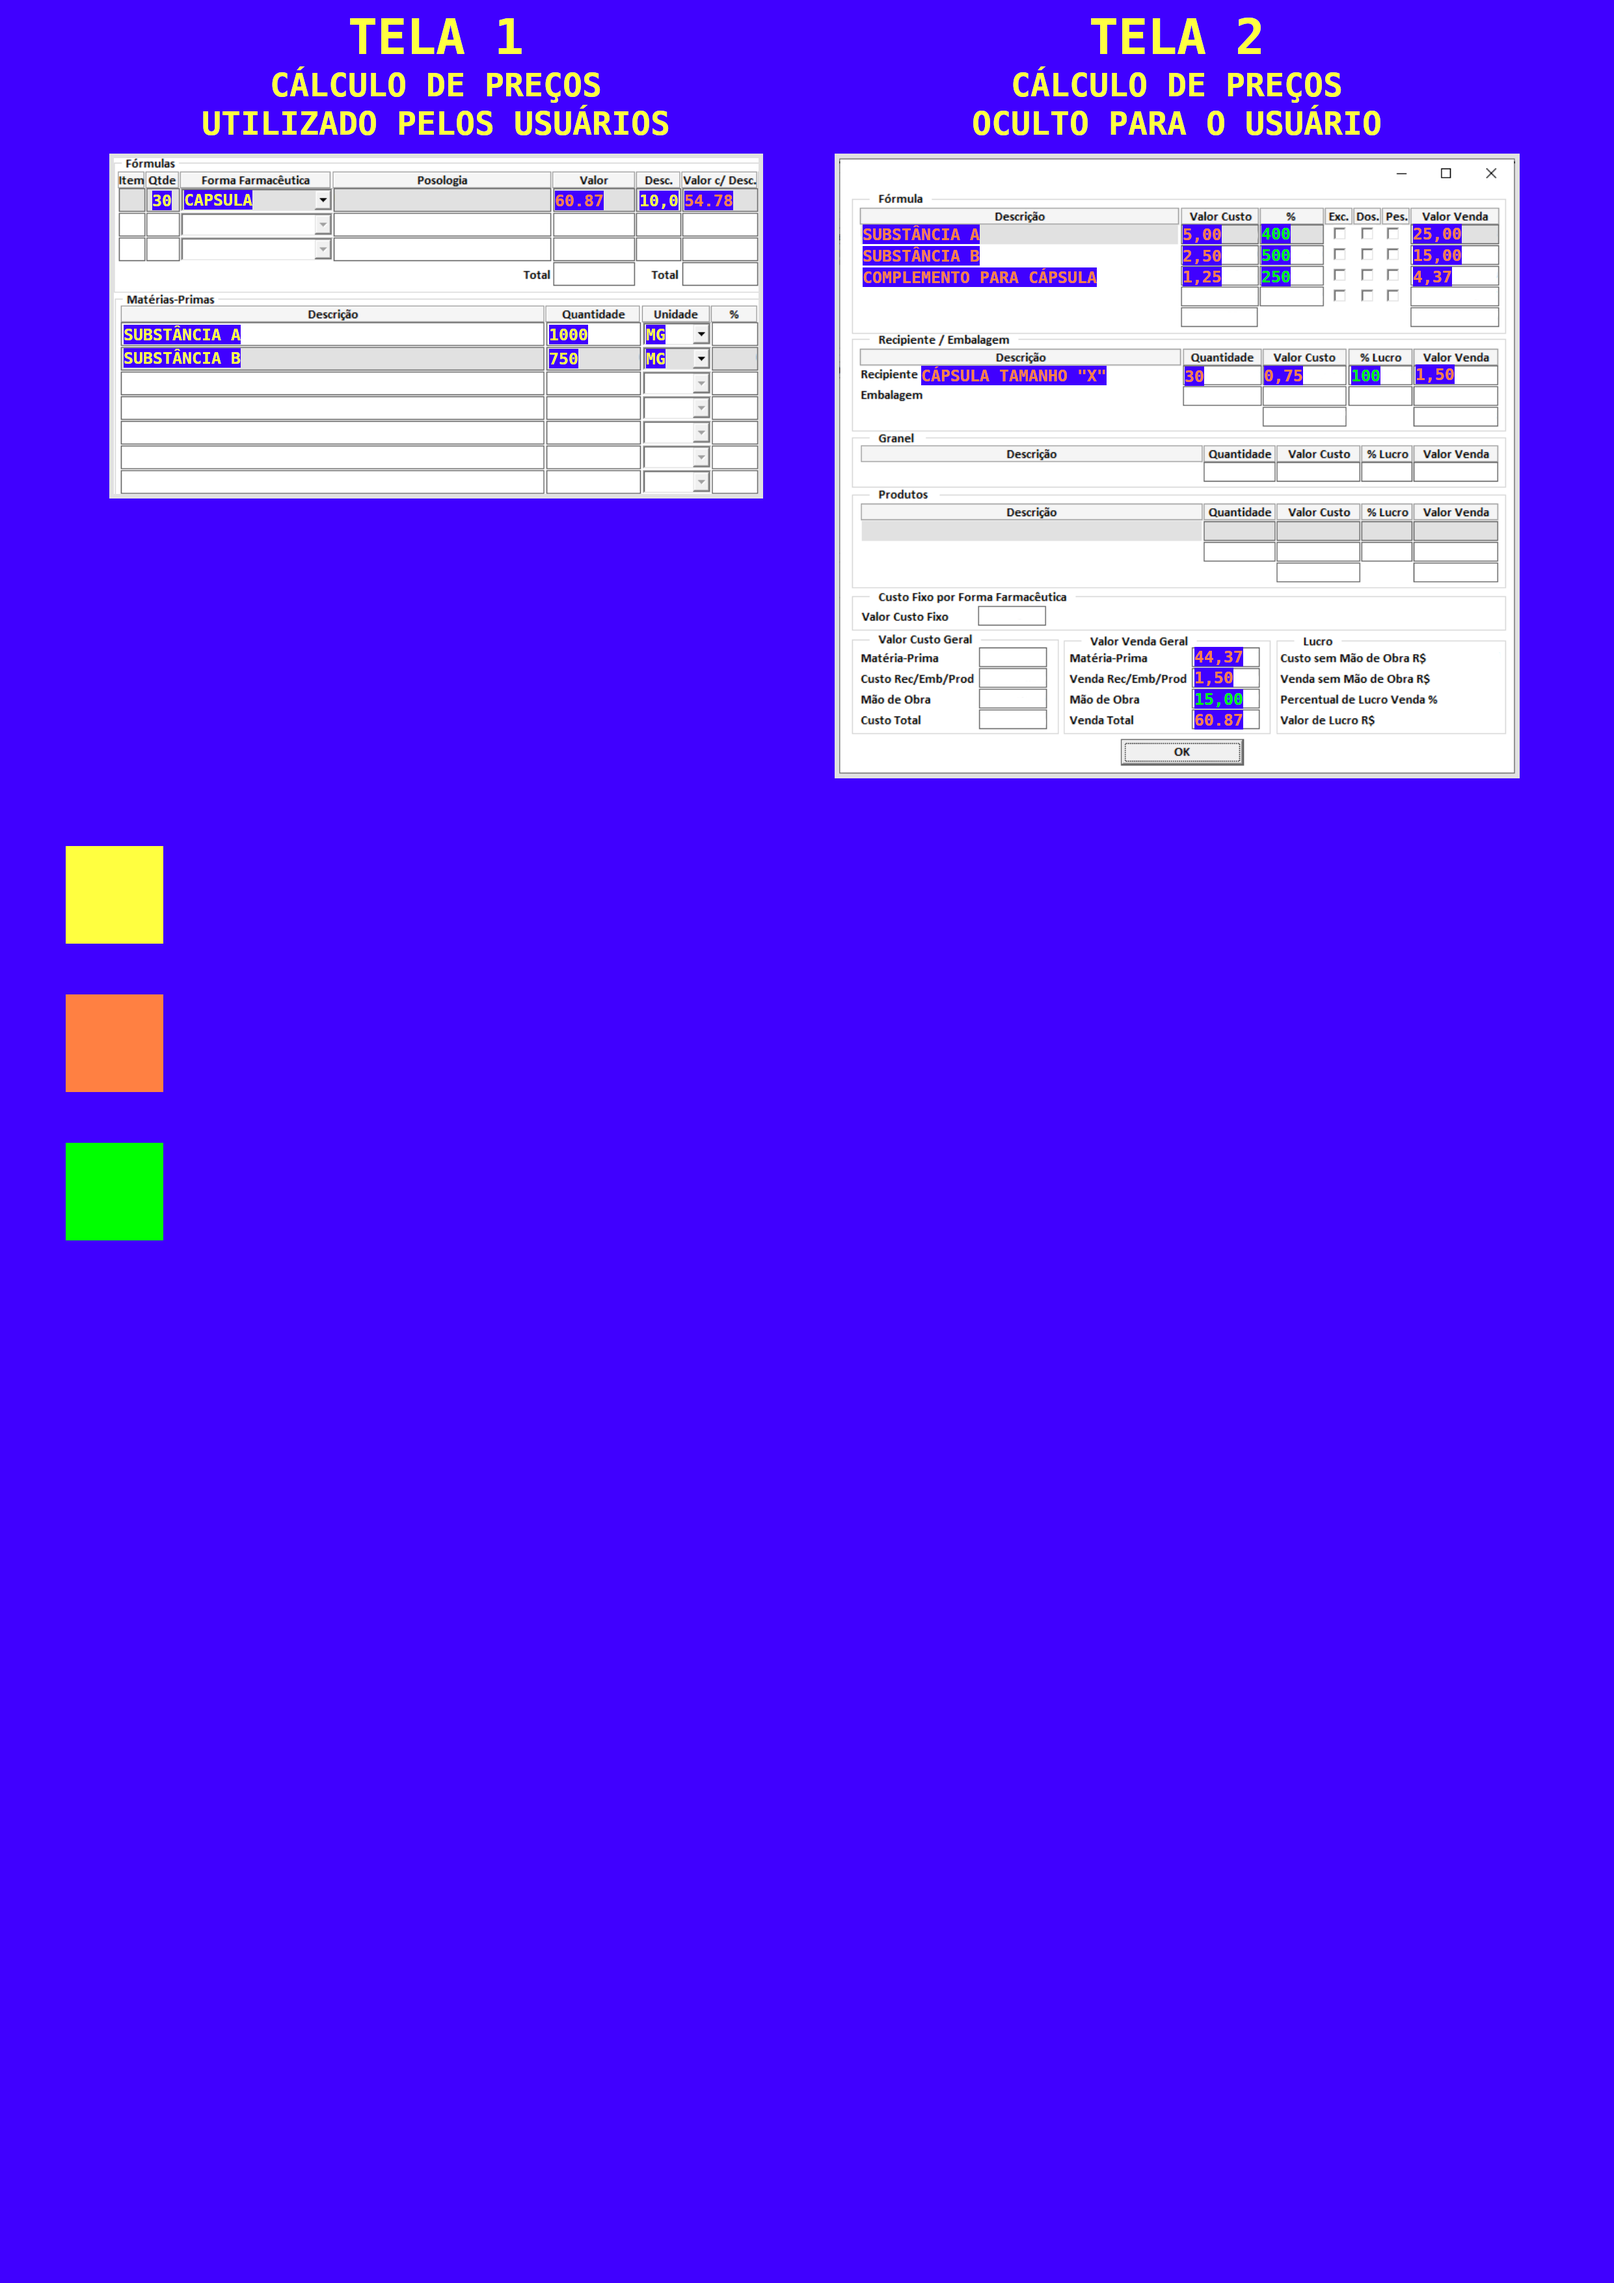
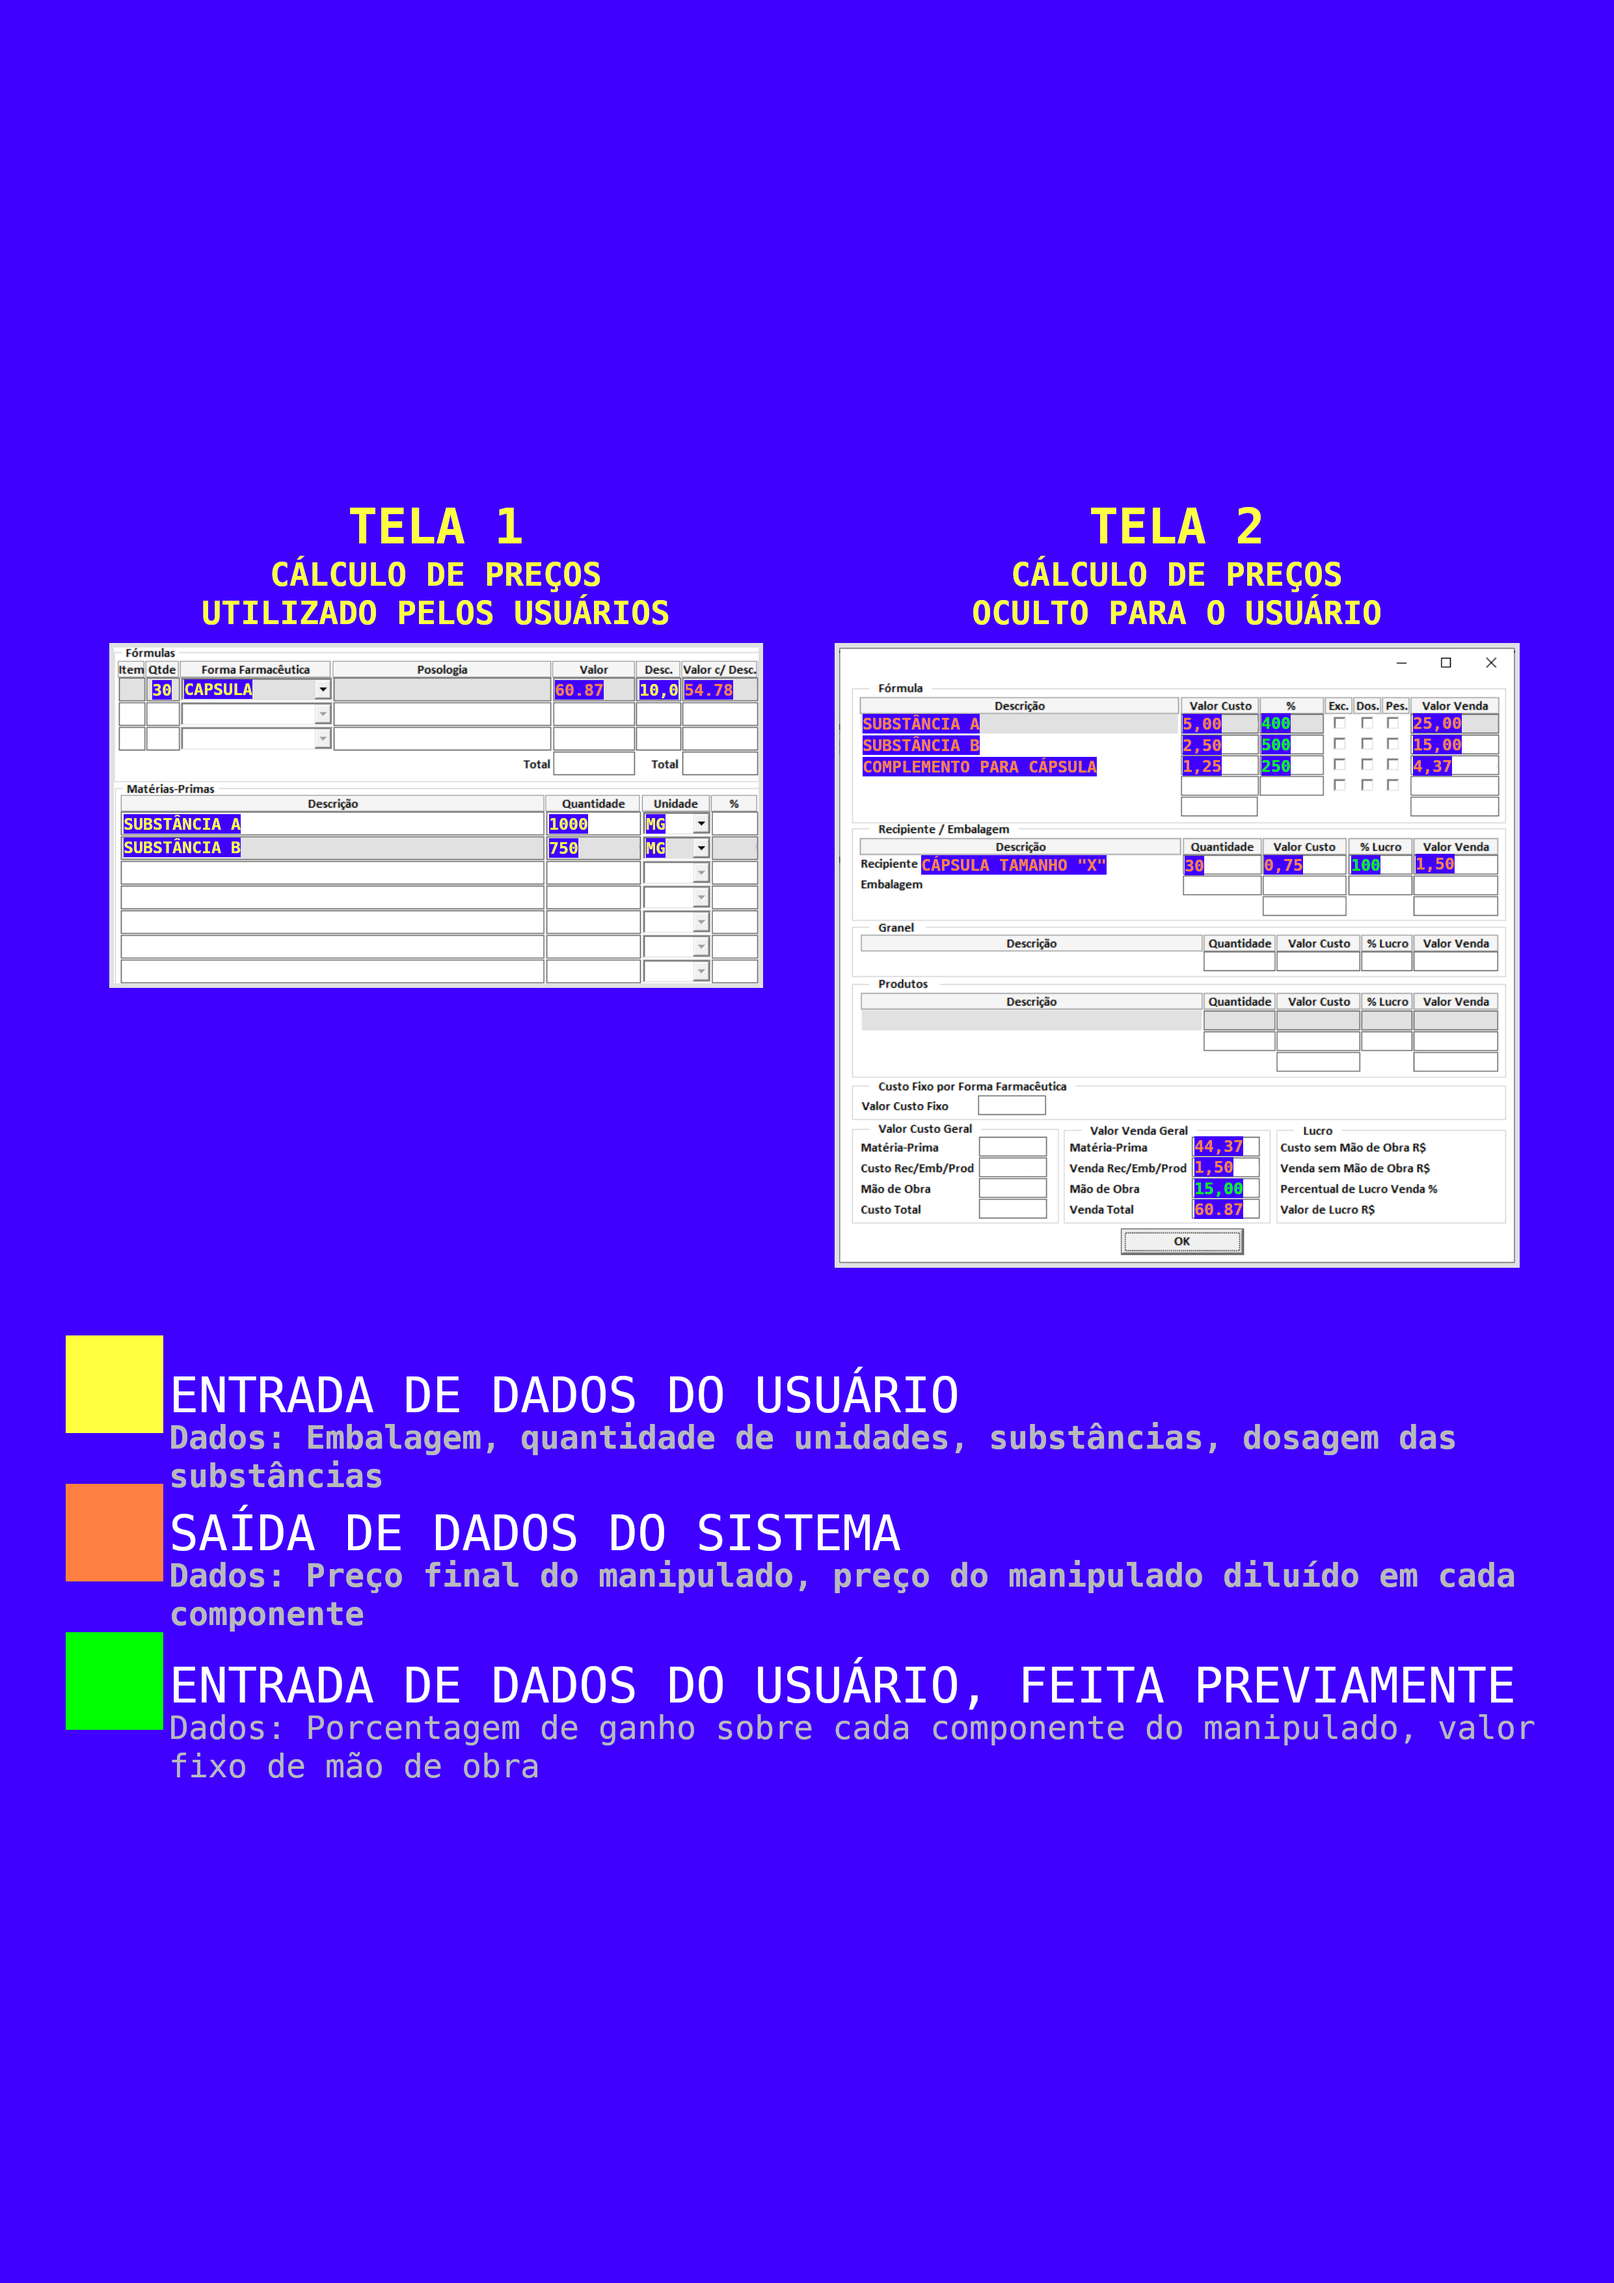
202610302242

diff --git a/código-v1.java b/código-v1.java
@@ -1,0 +1,41 @@
+import java.util.Scanner;
+import java.util.ArrayList;
+import java.util.Arrays;
+
+public class Main {
+    public static void main(String[] args) {
+        Scanner sc = new Scanner(System.in);
+
+        ArrayList<String> cadastrosSubstanciaNome = new ArrayList<>();
+        ArrayList<Double> cadastroSubstanciaQuantidade = new ArrayList<>();
+        ArrayList<Double> cadastroSubstanciaPrecoMin = new ArrayList<>();
+        ArrayList<Integer> cadastroSubstanciaPorcentagemLucro = new ArrayList<>();
+
+        int tempQuantidadecapsulas = 0;
+        int tempEscolhaSubstancia = 0;
+        int tempContador = 1;
+        int tempConta = 0;
+
+        cadastrosSubstanciaNome.addAll(Arrays.asList("Paracetamol", "Dipirona", "Dexametasona", "Ibuprofeno", "Amoxicilina"));
+
+        cadastroSubstanciaQuantidade.addAll(Arrays.asList(1000.0, 500.0, 200.0, 300.0, 400.0 ));
+
+        cadastroSubstanciaPrecoMin.addAll(Arrays.asList(10.0, 15.0, 20.0, 25.0, 30.0 ));
+
+        cadastroSubstanciaPorcentagemLucro.addAll(Arrays.asList(400, 300, 200, 100, 50));
+
+        System.out.println("Digite a quantidade de capsulas que deseja cotar: ");
+        tempQuantidadecapsulas = sc.nextInt();
+
+        for (String i : cadastrosSubstanciaNome) {
+            System.out.println("[" + tempContador + "] " + i);
+            tempContador++;
+        }
+
+        System.out.println("Escolha a Substância: ");
+        tempEscolhaSubstancia = sc.nextInt();
+
+        System.out.println("O valor total da substancia escolhida é de: " + (cadastroSubstanciaPrecoMin.get(tempEscolhaSubstancia - 1) * (cadastroSubstanciaPorcentagemLucro.get(tempEscolhaSubstancia - 1) / 100.0) * tempQuantidadecapsulas) + " R$");
+
+    }
+}
